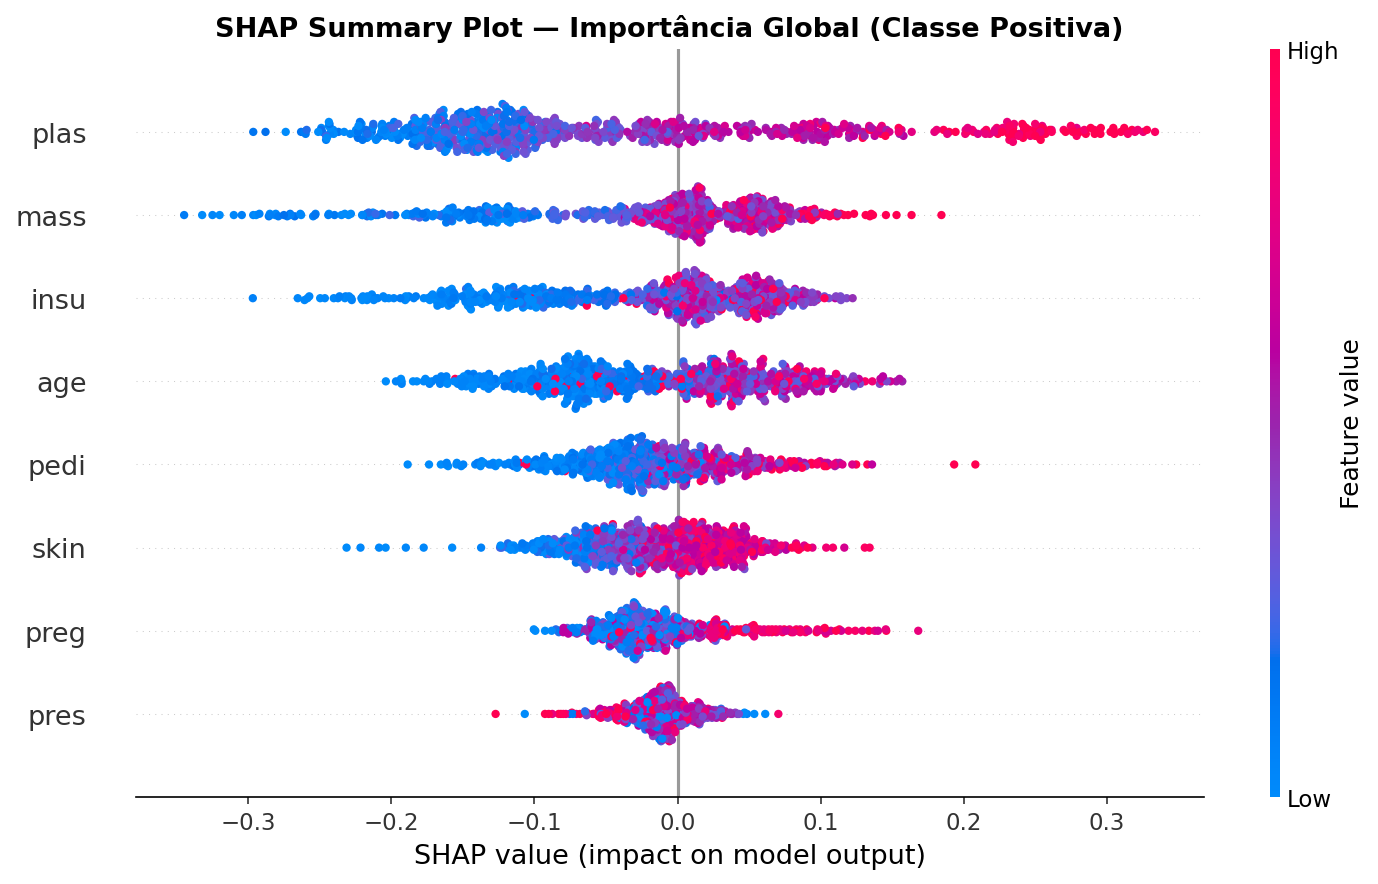
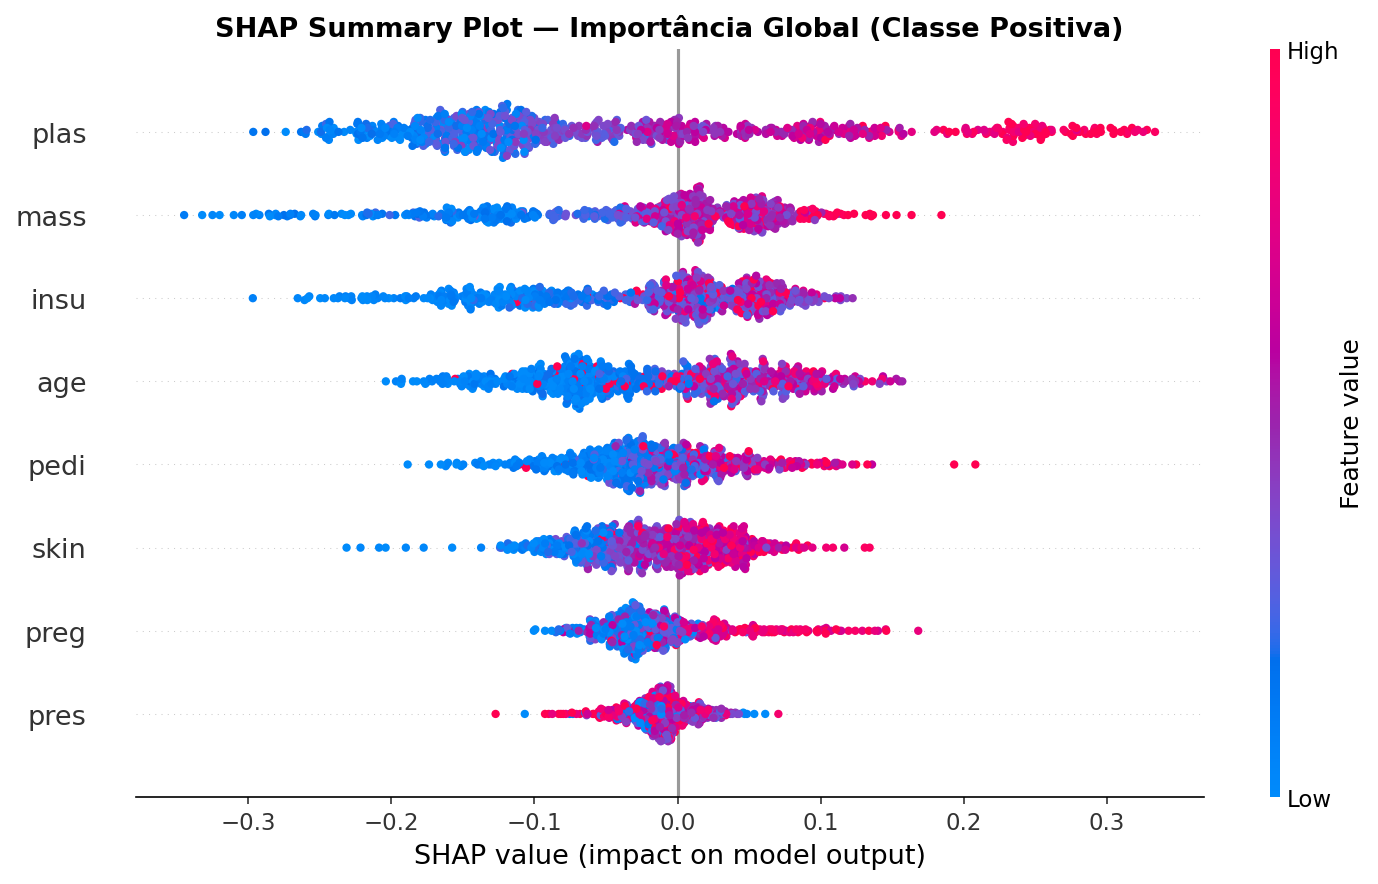
feat: add fase 6 e 7

diff --git a/src/main.py b/src/main.py
@@ -1545,3 +1545,295 @@ print(f"  ✓ {OUTPUT_DIR}/19_mlp_regressao_avaliacao.png")
 print("\n" + "=" * 70)
 print("ETAPA 5 CONCLUÍDA COM SUCESSO")
 print("=" * 70)
+
+
+# ================= ETAPA 6 — Otimização de Hiperparâmetros com Optuna =================
+
+import optuna
+from sklearn.model_selection import cross_val_score
+from optuna.visualization.matplotlib import plot_optimization_history, plot_param_importances
+
+print("\n\n" + "=" * 70)
+print("ETAPA 6 — Otimização de Hiperparâmetros com Optuna")
+print("=" * 70)
+
+# -------------------------------------------------------
+# 6.1 Definição do Espaço de Busca e Função Objetivo
+# -------------------------------------------------------
+print("\n" + "-" * 50)
+print("6.1 — Configuração do Optuna")
+print("-" * 50)
+
+# Otimizaremos a MLP de Classificação (Etapa 4)
+# Usaremos as features selecionadas (X_clf_sel) e o target (y_clf_full)
+
+def objective(trial):
+    # Espaço de busca para arquitetura e hiperparâmetros
+    n_layers = trial.suggest_int('n_layers', 1, 3)
+    layers = []
+    for i in range(n_layers):
+        layers.append(trial.suggest_int(f'n_units_l{i}', 16, 128, step=16))
+    
+    learning_rate_init = trial.suggest_float('learning_rate_init', 1e-4, 1e-2, log=True)
+    activation = trial.suggest_categorical('activation', ['relu', 'tanh'])
+    alpha = trial.suggest_float('alpha', 1e-5, 1e-2, log=True) # Penalização L2
+    
+    model = MLPClassifier(
+        hidden_layer_sizes=tuple(layers),
+        activation=activation,
+        learning_rate_init=learning_rate_init,
+        alpha=alpha,
+        solver='adam',
+        max_iter=300,
+        early_stopping=True,
+        random_state=42
+    )
+    
+    # O objetivo é maximizar o ROC-AUC via cross-validation 5-fold
+    score = cross_val_score(model, X_clf_sel, y_clf_full, n_jobs=-1, cv=5, scoring='roc_auc')
+    return score.mean()
+
+print("Espaço de busca configurado:")
+print("  • n_layers: 1 a 3 camadas")
+print("  • n_units (por camada): 16 a 128 neurônios (step=16)")
+print("  • learning_rate_init: 0.0001 a 0.01 (escala log)")
+print("  • activation: 'relu' ou 'tanh'")
+print("  • alpha (Regularização L2): 0.00001 a 0.01 (escala log)")
+
+# -------------------------------------------------------
+# 6.2 Execução da Otimização
+# -------------------------------------------------------
+print("\n" + "-" * 50)
+print("6.2 — Executando os Trials")
+print("-" * 50)
+
+N_TRIALS = 30
+print(f"Iniciando {N_TRIALS} tentativas (trials) do Optuna (por favor aguarde)...")
+
+# Suprimir logs padrão do optuna para um terminal mais limpo
+optuna.logging.set_verbosity(optuna.logging.WARNING)
+
+t0_opt = time.time()
+study = optuna.create_study(direction='maximize', study_name="MLP_Optimization")
+study.optimize(objective, n_trials=N_TRIALS)
+time_opt = time.time() - t0_opt
+
+print(f"Otimização concluída em {time_opt:.2f}s!")
+
+# -------------------------------------------------------
+# 6.3 Resultados e Comparação
+# -------------------------------------------------------
+print("\n" + "-" * 50)
+print("6.3 — Melhores Hiperparâmetros e Comparação")
+print("-" * 50)
+
+best_params = study.best_params
+best_score = study.best_value
+
+print("Melhor conjunto de hiperparâmetros encontrado:")
+for k, v in best_params.items():
+    print(f"  {k}: {v}")
+print(f"\nMelhor ROC-AUC estimada (CV 5-fold): {best_score:.4f}")
+
+# Reconstruir melhor modelo e testar
+layers_best = [best_params[f'n_units_l{i}'] for i in range(best_params['n_layers'])]
+best_mlp = MLPClassifier(
+    hidden_layer_sizes=tuple(layers_best),
+    activation=best_params['activation'],
+    learning_rate_init=best_params['learning_rate_init'],
+    alpha=best_params['alpha'],
+    solver='adam',
+    max_iter=500,
+    early_stopping=True,
+    random_state=42
+)
+
+print("\nTreinando o Melhor Modelo no conjunto de treino completo...")
+t0_best = time.time()
+best_mlp.fit(X_train, y_train)
+time_best = time.time() - t0_best
+
+# Avaliar no conjunto de teste final
+y_prob_best = best_mlp.predict_proba(X_test)[:, 1]
+auc_best = roc_auc_score(y_test, y_prob_best)
+
+print("\n" + "=" * 50)
+print("DISCUSSÃO DOS RESULTADOS (ETAPA 6)")
+print("=" * 50)
+
+print(f"1. Ganhos de desempenho (ROC-AUC no Teste):")
+print(f"   Modelo Original (Etapa 4): {auc_mlp:.4f}")
+print(f"   Modelo Otimizado:          {auc_best:.4f}")
+delta_auc = auc_best - auc_mlp
+print(f"   Variação: {'+' if delta_auc >= 0 else ''}{delta_auc:.4f}")
+
+print(f"\n2. Impacto no tempo de treinamento:")
+print(f"   Tempo Original:  {time_mlp:.3f}s")
+print(f"   Tempo Otimizado: {time_best:.3f}s")
+print("   *Nota: Se a rede otimizada for menor ou usar um learning rate mais rápido, ela convergir mais rápido.*")
+
+print(f"\n3. Principais hiperparâmetros encontrados:")
+print(f"   A arquitetura passou de (64, 32, 16) para {tuple(layers_best)}.")
+print(f"   Função de ativação escolhida: '{best_params['activation']}'.")
+print(f"   Taxa de aprendizado inicial ajustada de 0.001 para {best_params['learning_rate_init']:.5f}.")
+print(f"   Penalidade L2 (alpha) selecionada: {best_params['alpha']:.5f}")
+
+# -------------------------------------------------------
+# 6.4 Visualizações do Optuna
+# -------------------------------------------------------
+print("\n" + "-" * 50)
+print("6.4 — Gerando visualizações do Optuna…")
+print("-" * 50)
+
+# Histórico
+try:
+    ax_hist = plot_optimization_history(study)
+    ax_hist.figure.savefig(f"{OUTPUT_DIR}/20_optuna_history.png", dpi=150, bbox_inches="tight")
+    plt.close(ax_hist.figure)
+    print(f"  ✓ {OUTPUT_DIR}/20_optuna_history.png")
+except Exception as e:
+    print(f"  [Aviso] Falha ao gerar plot_optimization_history: {e}")
+
+# Importância dos Hiperparâmetros
+try:
+    ax_param = plot_param_importances(study)
+    ax_param.figure.tight_layout()
+    ax_param.figure.savefig(f"{OUTPUT_DIR}/21_optuna_param_importances.png", dpi=150, bbox_inches="tight")
+    plt.close(ax_param.figure)
+    print(f"  ✓ {OUTPUT_DIR}/21_optuna_param_importances.png")
+except Exception as e:
+    print(f"  [Aviso] Falha ao gerar plot_param_importances: {e}")
+
+print("\n" + "=" * 70)
+print("ETAPA 6 CONCLUÍDA COM SUCESSO")
+print("=" * 70)
+
+# ================= ETAPA 7 — Regularização e Análise de Overfitting =================
+
+print("\n\n" + "=" * 70)
+print("ETAPA 7 — Regularização e Análise de Overfitting")
+print("=" * 70)
+
+# -------------------------------------------------------
+# 7.1 Forçando Overfitting
+# -------------------------------------------------------
+print("\n" + "-" * 50)
+print("7.1 — Criando modelo propenso a Overfitting")
+print("-" * 50)
+
+# Para forçar o overfitting na MLP do scikit-learn:
+# Usaremos uma rede muito densa, muitas épocas, alpha=0 (sem L2) e uma "artimanha"
+# com early_stopping=True mas paciência extrema (n_iter_no_change=500), 
+# apenas para que o sklearn seja obrigado a capturar e preencher a variável
+# `validation_scores_` ao longo das épocas (útil para plotarmos o gráfico do descolamento).
+
+mlp_overfit = MLPClassifier(
+    hidden_layer_sizes=(256, 128, 64),
+    activation='relu',
+    solver='adam',
+    alpha=0.0,             # Sem regularização
+    max_iter=500,
+    early_stopping=True,
+    validation_fraction=0.2,
+    n_iter_no_change=500,  # "Desliga" o early stopping na prática
+    random_state=42
+)
+
+print("Treinando rede hiperdensa (256, 128, 64) por até 500 épocas (sem regularização L2 e sem parada antecipada real)...")
+mlp_overfit.fit(X_train, y_train)
+print(f"Treino parou na época {mlp_overfit.n_iter_}.")
+
+# -------------------------------------------------------
+# 7.2 Aplicando Regularização
+# -------------------------------------------------------
+print("\n" + "-" * 50)
+print("7.2 — Aplicando Regularização (L2 + Early Stopping)")
+print("-" * 50)
+
+mlp_reg = MLPClassifier(
+    hidden_layer_sizes=(64, 32), # Regularização estrutural (rede menor)
+    activation='relu',
+    solver='adam',
+    alpha=0.01,            # Forte regularização L2
+    max_iter=500,
+    early_stopping=True,
+    validation_fraction=0.2,
+    n_iter_no_change=15,   # Early Stopping ativado e agressivo
+    random_state=42
+)
+
+print("Treinando rede menor (64, 32) com L2 (alpha=0.01) e Early Stopping (paciência=15)...")
+mlp_reg.fit(X_train, y_train)
+print(f"Treino parou na época {mlp_reg.n_iter_}.")
+
+# -------------------------------------------------------
+# 7.3 Visualização Comparativa
+# -------------------------------------------------------
+print("\n" + "-" * 50)
+print("7.3 — Gerando curvas de aprendizado comparativas…")
+print("-" * 50)
+
+fig, axes = plt.subplots(1, 2, figsize=(14, 5))
+
+# Plot Overfitting
+# Convertemos Loss (que tende a 0) em (1 - Loss) só para ficar na mesma
+# escala visual (ascendente) do Validation Score (Acurácia que tende a 1)
+loss_overfit_inv = 1 - np.array(mlp_overfit.loss_curve_)
+axes[0].plot(mlp_overfit.validation_scores_, label='Acurácia (Validação)', color='red', linewidth=2)
+axes[0].plot(loss_overfit_inv, label='1 - Loss (Treino)', color='blue', linestyle='--', linewidth=2)
+axes[0].set_title('Modelo com Overfitting', fontsize=14)
+axes[0].set_xlabel('Épocas')
+axes[0].set_ylabel('Performance (escala ajustada)')
+axes[0].legend()
+axes[0].grid(True, linestyle=':', alpha=0.6)
+
+# Plot Regularizado
+loss_reg_inv = 1 - np.array(mlp_reg.loss_curve_)
+axes[1].plot(mlp_reg.validation_scores_, label='Acurácia (Validação)', color='green', linewidth=2)
+axes[1].plot(loss_reg_inv, label='1 - Loss (Treino)', color='blue', linestyle='--', linewidth=2)
+axes[1].set_title('Modelo Regularizado', fontsize=14)
+axes[1].set_xlabel('Épocas')
+axes[1].legend()
+axes[1].grid(True, linestyle=':', alpha=0.6)
+
+plt.tight_layout()
+plt.savefig(f"{OUTPUT_DIR}/22_overfitting_comparacao.png", dpi=150, bbox_inches="tight")
+plt.close()
+print(f"  ✓ {OUTPUT_DIR}/22_overfitting_comparacao.png")
+
+# -------------------------------------------------------
+# 7.4 Discussão Obrigatória
+# -------------------------------------------------------
+print("\n" + "=" * 50)
+print("DISCUSSÃO TEÓRICA SOBRE OVERFITTING (REQUISITO DA ETAPA 7)")
+print("=" * 50)
+
+print("""
+Q1: Como identificar o overfitting nas curvas de aprendizado?
+R: O overfitting é identificado no gráfico quando a curva de desempenho no conjunto 
+   de treino (linha azul tracejada) continua a subir desenfreadamente (ou a perda cai para 
+   quase zero), enquanto a curva de validação (linha vermelha) estagna e, em seguida, 
+   começa a cair. É esse "descolamento" crescente e a divergência entre treino e teste 
+   que evidenciam que o modelo parou de aprender padrões e passou a decorar os dados.
+
+Q2: Quais os principais impactos do overfitting na capacidade de generalização?
+R: Quando ocorre o overfitting, o modelo se torna superespecializado nos ruídos, 
+   outliers e minúcias exatas do dataset de treinamento. O impacto direto é a perda 
+   da capacidade de generalização: o modelo fracassará em produzir previsões precisas 
+   quando exposto a novos dados do mundo real que não faziam parte do seu treino original.
+
+Q3: Como as técnicas de regularização aplicadas ajudaram a mitigar o problema?
+R: Aplicamos três estratégias conjuntas no modelo da direita (verde) para curar o overfitting:
+   1. Simplificação Estrutural: Reduzimos as camadas de (256, 128, 64) para (64, 32). Menos
+      neurônios significam menor capacidade de memorização "forçada" da rede.
+   2. Regularização L2 (alpha=0.01): Penalizou pesos muito elevados durante o treinamento. 
+      Isso força a rede a usar pesos menores e mais distribuídos, suavizando a fronteira 
+      de decisão matemática.
+   3. Early Stopping: Monitorou a acurácia de validação. Assim que a rede percebeu que não
+      houve melhora durante 15 épocas (paciência), ela congelou o treinamento e "salvou" os
+      pesos, impedindo-a de continuar treinando até decorar os dados residuais.
+""")
+
+print("\n" + "=" * 70)
+print("PROJETO FINALIZADO COM SUCESSO! 🚀")
+print("=" * 70)